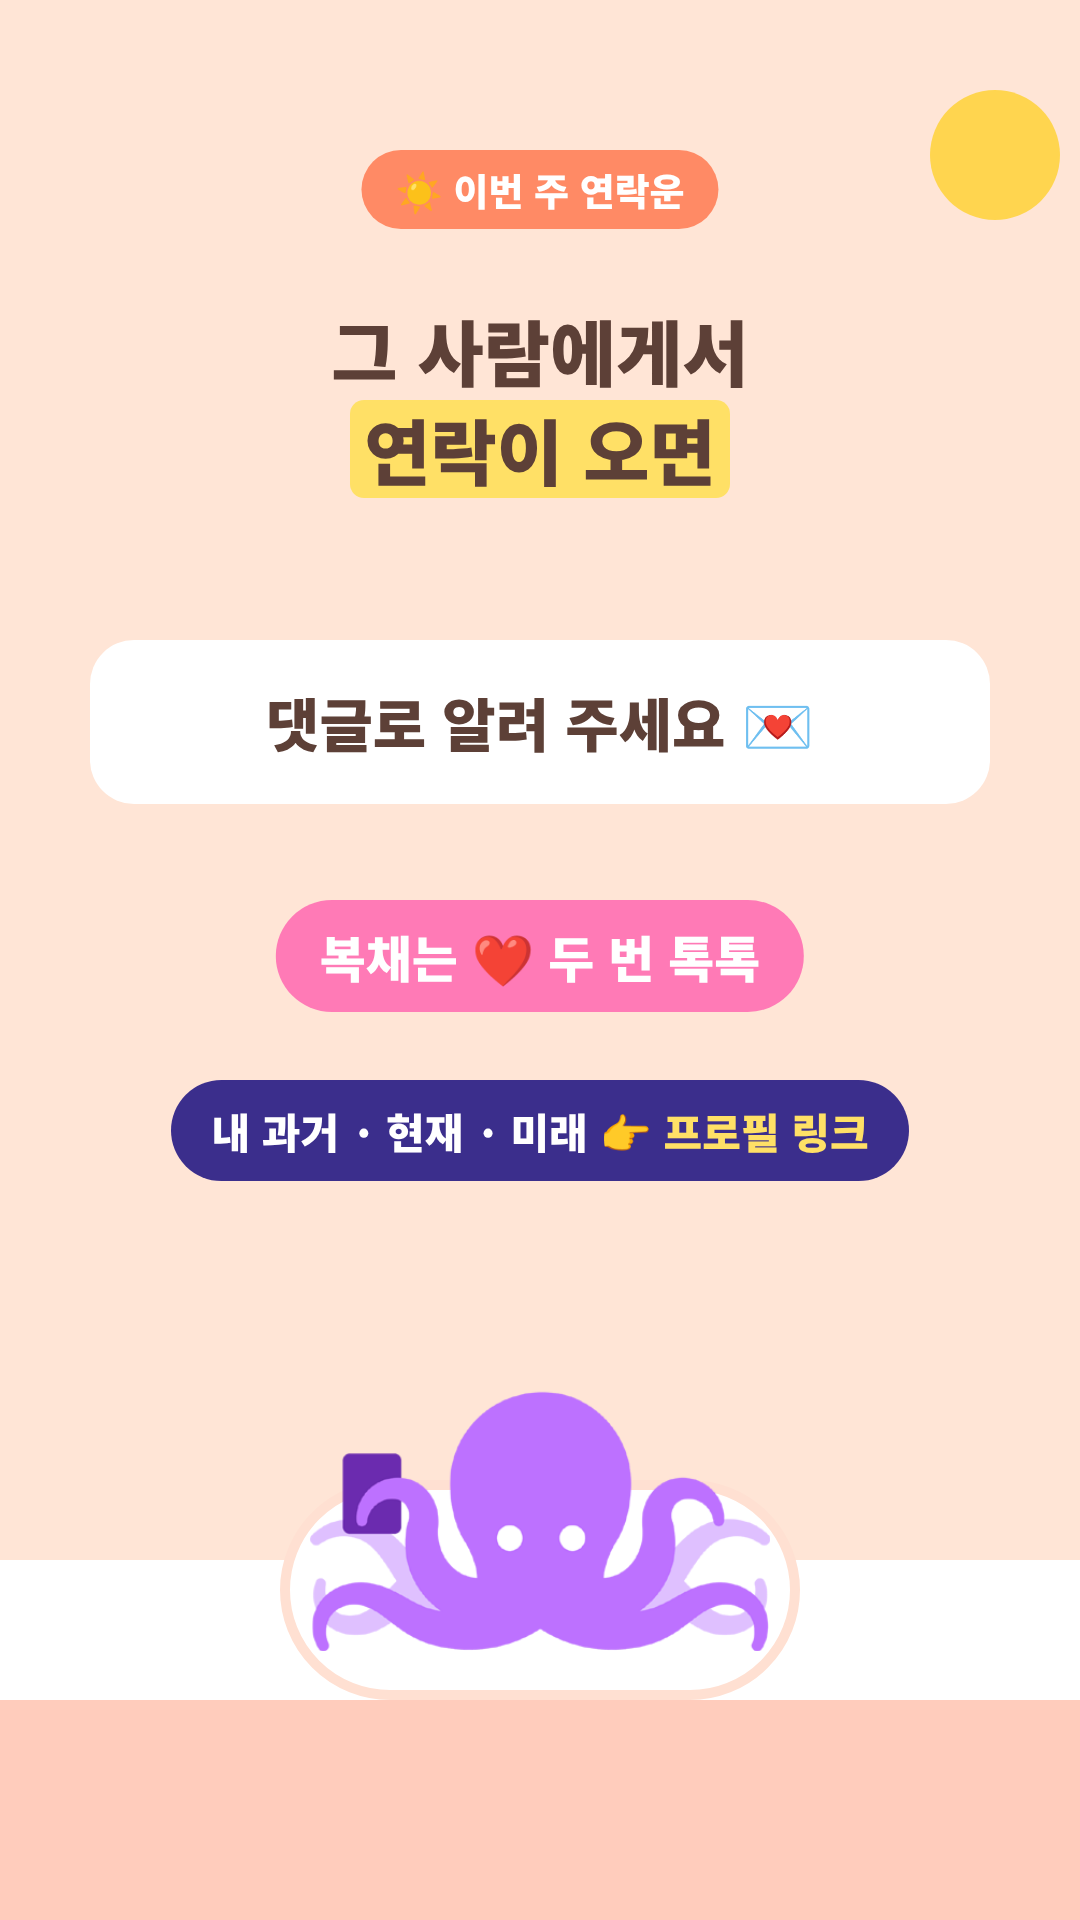
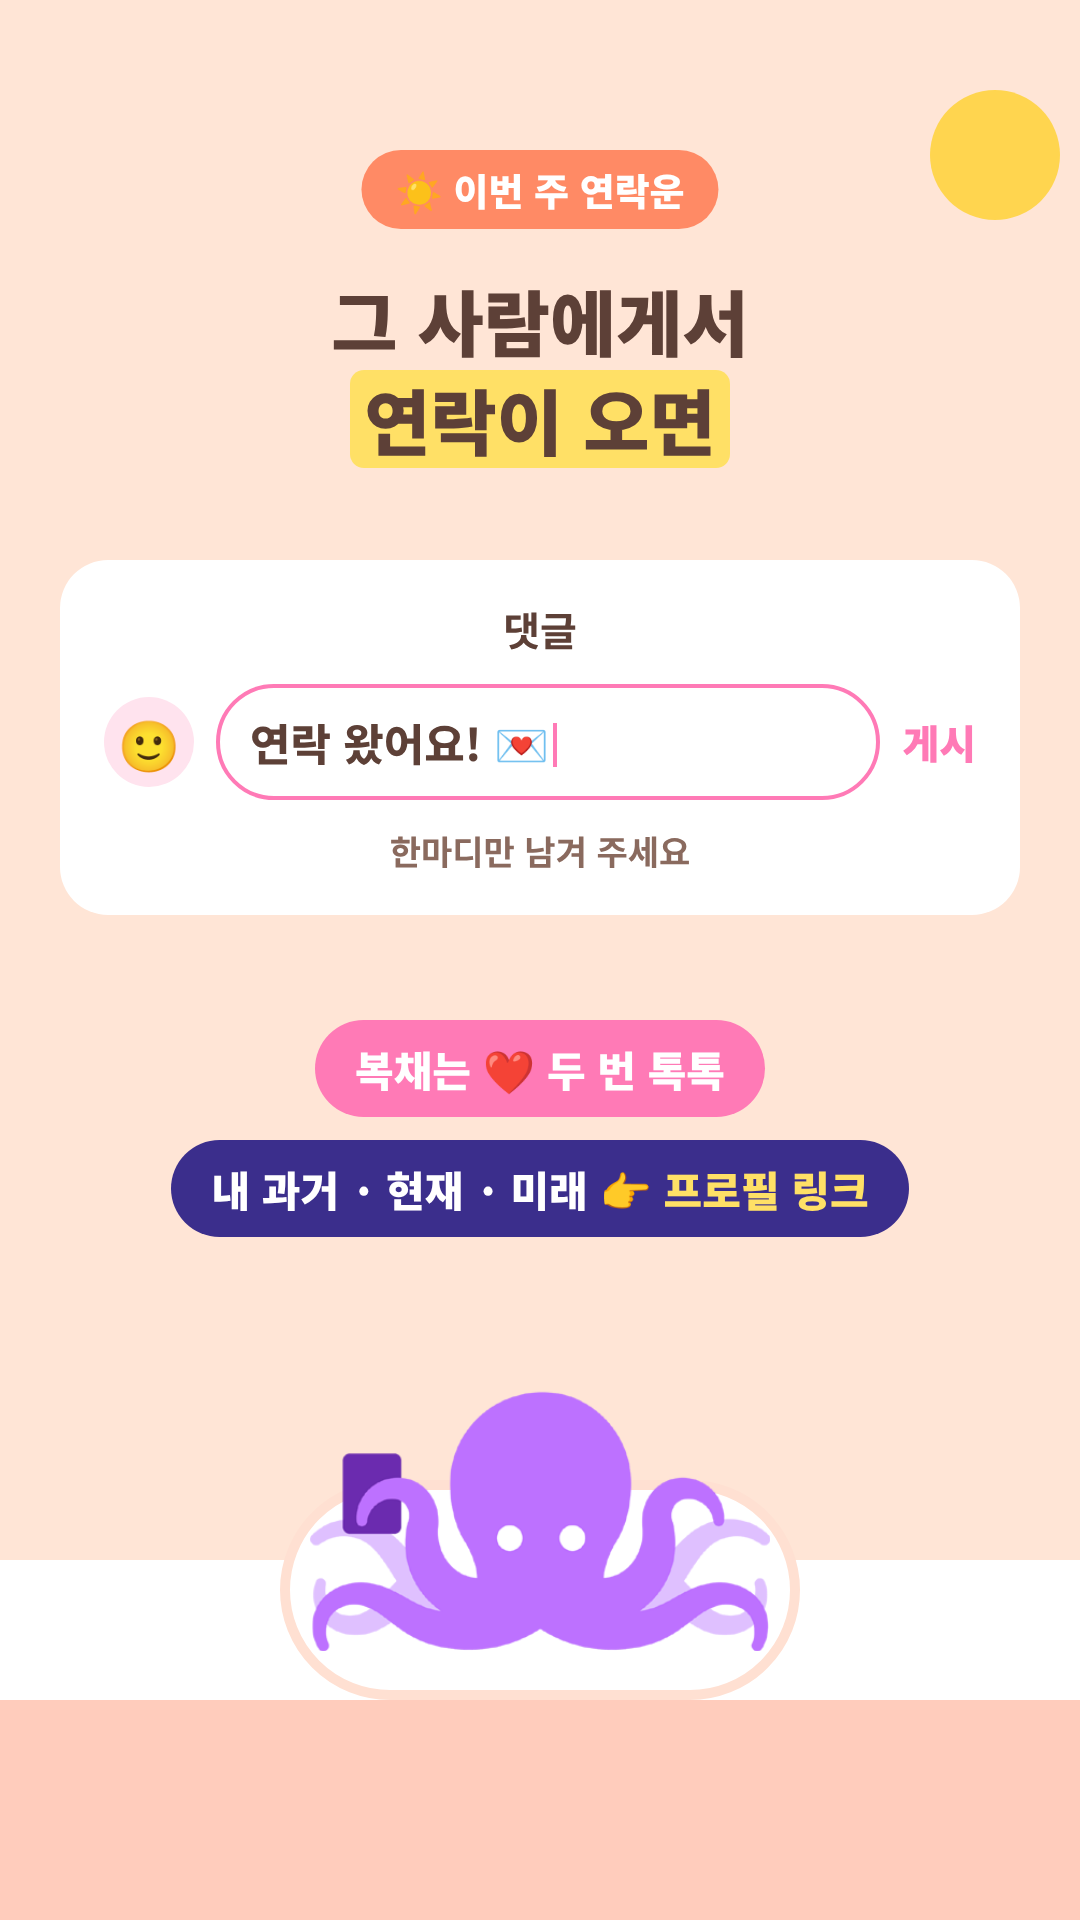
연락운 머리맡 알림: ⑦ 마무리를 댓글 입력창 디자인으로
Claude-Session: https://claude.ai/code/session_01CejgdC5FKbbZMnpaYgrfgJ

Changed region(s): [[0.0306, 0.1562, 0.9472, 0.6562]]

diff --git a/promo/src/reel_mcall_07_end.html b/promo/src/reel_mcall_07_end.html
@@ -27,10 +27,21 @@
 .bok{position:absolute;top:900px;left:50%;translate:-50% 0;padding:20px 44px;background:#FF7AB6;border-radius:999px;font-size:50px;font-weight:900;color:#FFF;white-space:nowrap}
 .m3{position:absolute;top:960px;left:0;right:0;display:flex;justify-content:center;gap:22px}.m3 span{width:190px}.m3 span:not(:last-child){opacity:.45}
 .go{position:absolute;left:0;right:0;top:1080px;text-align:center;z-index:6}
-.go span{display:inline-block;padding:20px 40px;background:#3B2E8C;border-radius:999px;font-size:42px;font-weight:900;color:#FFF}.go b{color:#FFE066}</style></head><body>
+.go span{display:inline-block;padding:20px 40px;background:#3B2E8C;border-radius:999px;font-size:42px;font-weight:900;color:#FFF}.go b{color:#FFE066}.cta{position:absolute;left:0;right:0;text-align:center;z-index:5}.cta span{display:inline-block;padding:18px 40px;border-radius:999px;font-size:42px;font-weight:900}
+.sheet{position:absolute;left:60px;right:60px;top:560px;background:#FFF;border-radius:48px;padding:40px 44px;z-index:4}
+.sheet h4{margin:0 0 26px;text-align:center;font-size:40px;color:#5D4037}
+.cmt{display:flex;align-items:center;gap:22px;margin-top:22px}
+.av{flex:none;width:90px;height:90px;border-radius:50%;background:#FFE3EE;font-size:50px;line-height:90px;text-align:center}
+.inp{flex:1;padding:22px 30px;border-radius:999px;border:4px solid #FF7AB6;font-size:44px;font-weight:800;color:#5D4037}
+.inp i{display:inline-block;width:4px;height:44px;background:#FF7AB6;vertical-align:-6px;margin-left:4px}
+.snd{flex:none;font-size:40px;font-weight:900;color:#FF7AB6}
+.hint{margin-top:26px;text-align:center;font-size:34px;color:#8a6a5e;font-weight:700}</style></head><body>
 <div class="f" id="frame">
 <span class="bd">☀ 이번 주 연락운</span><div class="sunw"></div>
-<p class="t" style="top:300px">그 사람에게서<br><span class="mk">연락이 오면</span></p>
-<div class="cm">댓글로 알려 주세요 💌</div><span class="bok">복채는 ❤ 두 번 톡톡</span>
-<p class="go"><span>내 과거 · 현재 · 미래 <b>👉 프로필 링크</b></span></p><div class="bed" style="top:1560px"></div><div class="pillow" style="top:1480px;left:280px"></div><div class="blanket" style="top:1700px"></div><img src="../../images/mm01.png" style="position:absolute;left:310px;top:1380px;width:460px;z-index:2">
+<p class="t" style="top:270px">그 사람에게서<br><span class="mk">연락이 오면</span></p>
+<div class="sheet"><h4>댓글</h4>
+<div class="cmt"><div class="av">🙂</div><div class="inp">연락 왔어요! 💌<i></i></div><span class="snd">게시</span></div>
+<p class="hint">한마디만 남겨 주세요</p></div>
+<p class="cta" style="top:1020px"><span style="background:#FF7AB6;color:#FFF">복채는 ❤ 두 번 톡톡</span></p>
+<p class="cta" style="top:1140px"><span style="background:#3B2E8C;color:#FFF">내 과거 · 현재 · 미래 <b style="color:#FFE066">👉 프로필 링크</b></span></p><div class="bed" style="top:1560px"></div><div class="pillow" style="top:1480px;left:280px"></div><div class="blanket" style="top:1700px"></div><img src="../../images/mm01.png" style="position:absolute;left:310px;top:1380px;width:460px;z-index:2">
 </div></body></html>
